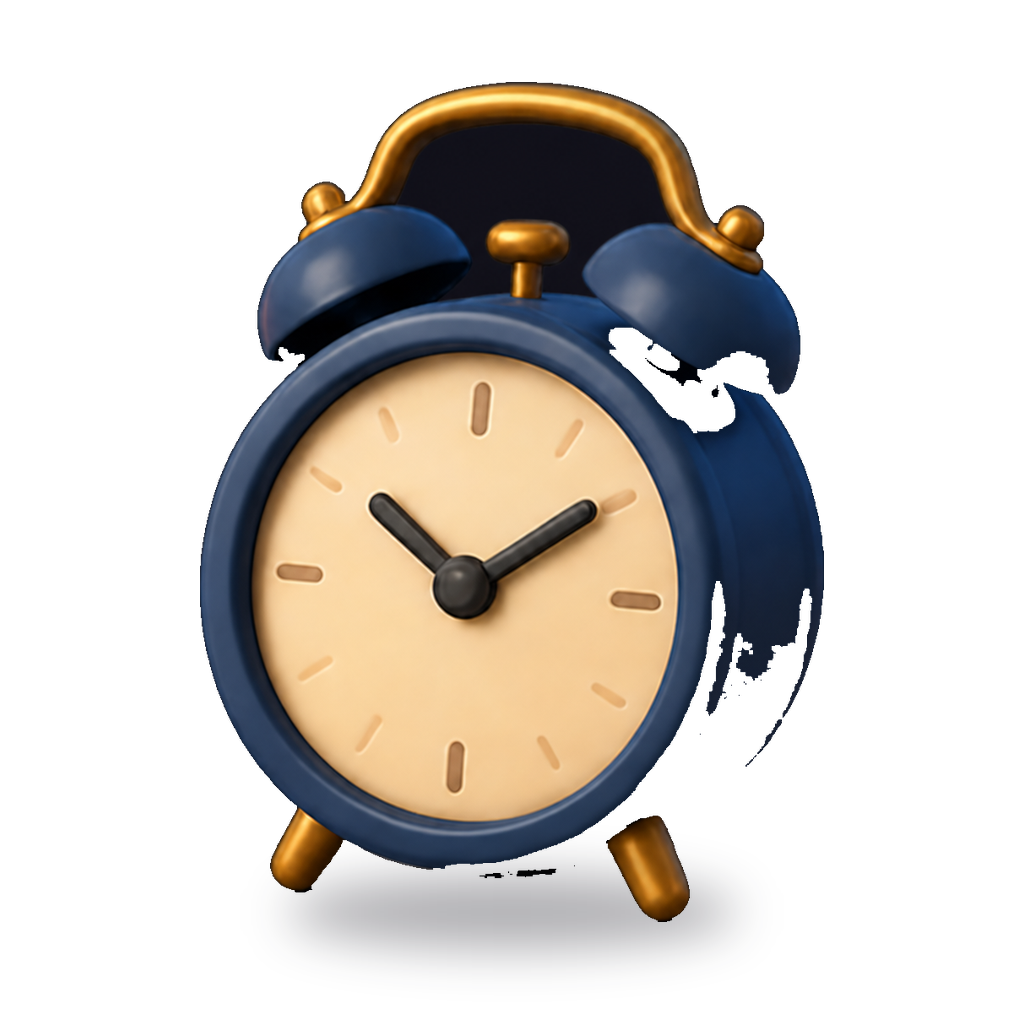
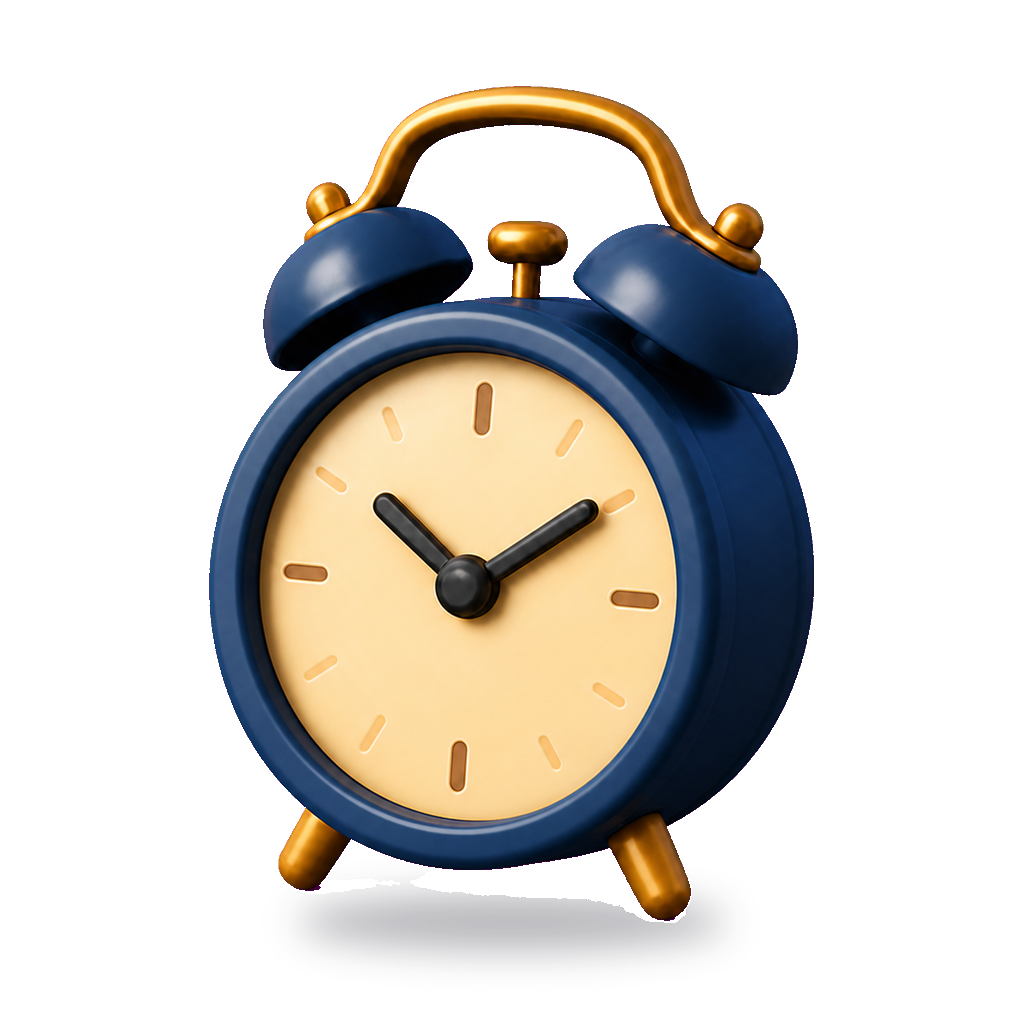
Rad dreht sich, und die drei bestellten Zeichen sind drin
qqSpinSlow: `CozyGameView` setzte seit jeher `animation: qqSpinSlow ...`, und
dieses Keyframe gab es im ganzen Repo nicht. CSS verwirft einen unbekannten
Animationsnamen stillschweigend - keine Konsolenmeldung, kein roter Test, das
Rad stand still, waehrend der Zustand „WHEEL_SPIN" hiess. Nachgemessen mit
--serie: mittlere Abweichung zwischen den Bildern 0,00 von 255. Jetzt 78 bis
85 von 255 auf der Scheibe.

Dazu zwei Entscheidungen, die beim Hinsehen fielen:

* linear statt ease-in-out. Die Schleife laeuft endlos, eine weiche Kurve
  bremst an jeder 360-Grad-Grenze - das liest sich als Stocken, nicht als Rad.
* 2,4s statt 1,2s pro Umdrehung. 1,2s sind 50 Umdrehungen pro Minute, das ist
  ein Ladekringel. 25 U/min ist das Tempo, mit dem ein echtes Rad ausrollt.

Der erste Anlauf drehte das ganze Bild, und im alten Zeichen hing ein Staender
daran - der schwang nach oben links. Wolfs Nachlieferung loest das: Scheibe
ohne Staender, Zeiger als eigene Datei. Zwei Ebenen, die Scheibe dreht, der
Zeiger steht. Gemessen im selben Lauf: Scheibe 78/255, Zeigerbereich 2,6/255.
Die Drehachse steht auf der gemessenen Radachse (breiteste Zeile bei y=500 von
1024, also 48,83 %), sonst eiert die Scheibe um 12px pro Umdrehung.

Aus der Nachlieferung eingebaut, nur was bestellt war:

* fx-rules (aufgeschlagenes Buch) loest fx-book bei den Regeln ab. 📖 zeigt
  jetzt darauf, das Handy zieht mit. fx-book bleibt liegen.
* fx-wheel und fx-wheel-pointer.
* sub-top5.
[…]

diff --git a/frontend/src/components/QQIcon.tsx b/frontend/src/components/QQIcon.tsx
@@ -75,6 +75,8 @@ export type QQIconSlug =
   | 'fx-arena'
   | 'fx-teams'
   // Wolf-Lieferung 2026-07-15 (Arena): 3D-Buch (Regeln) + neutrales Wappen.
+  // `fx-book` traegt die Regeln seit dem 25.08. nicht mehr, siehe `fx-rules`.
+  // Die Datei bleibt liegen, geloescht wird nichts.
   | 'fx-book'
   | 'fx-shield-faction'
   // Wolf-Lieferung 2026-07-16: Rakete (Führungs-Callout), Anker-Wolf (Award
@@ -140,6 +142,10 @@ export type QQIconSlug =
   // Gegenstand darstellen laesst. Nicht in EMOJI_TO_SLUG eintragen — dort
   // wuerden sie generische Zeichen kapern (🔥 ist auch der Underdog-Award,
   // 🎉 auch der Jubel-Effekt). Aufloesung laeuft ueber qqReactionSlug().
+  // ── Nachbestellung, 2026-08-25 ────────────────────────────────────────────
+  // Wolf: „ich wollte buch, cozygames rad und top 5 und die kaputten".
+  | 'fx-rules'             // aufgeschlagenes Buch. Loest fx-book bei den Regeln ab
+  | 'fx-wheel-pointer'     // der Zeiger des Rades, eigene Datei weil er NICHT mitdreht
   | 'react-applause'
   | 'react-fire'
   | 'react-shock'
@@ -194,6 +200,8 @@ const FALLBACK_EMOJI: Record<QQIconSlug, string> = {
   'fx-arena':          '🏟',
   'fx-teams':          '👥',
   'fx-book':           '📖',
+  'fx-rules':          '📖',
+  'fx-wheel-pointer':  '🔻',
   'fx-shield-faction': '🛡',
   'rocket':            '🚀',
   'anker':             '⚓',
@@ -318,7 +326,12 @@ const EMOJI_TO_SLUG: Record<string, QQIconSlug> = {
   '🗺': 'fx-map',
   '👑': 'fx-crown',
   '👥': 'fx-teams',
-  '📖': 'fx-book',
+  // 2026-08-25 (Wolf): 📖 zeigt jetzt das aufgeschlagene Buch. Das alte
+  // `fx-book` war ein geschlossenes Buch mit cremefarbenem Deckel und blauem
+  // Ruecken - dieselben zwei Farben und fast dieselbe stehende Silhouette wie
+  // das MUCHO-Klemmbrett, auf 2,8 m Bildbreite kaum zu unterscheiden. Deshalb
+  // las es sich als Notizbuch und nicht als Regelwerk.
+  '📖': 'fx-rules',
   '🚀': 'rocket',
   // 2026-08-22 (CozyQuiz Icon Set): diese Emoji hatten bisher kein Motiv und
   // wurden als OS-Glyphe gerendert — also in jedem Betriebssystem anders und

diff --git a/frontend/src/components/CozyGameView.tsx b/frontend/src/components/CozyGameView.tsx
@@ -671,9 +671,36 @@ function WheelView({
         {/* 2026-08-23 (2a): die Pinata war ein Systemzeichen und ausserdem das
             falsche Bild - hier dreht ein Rad, keine Pinata. `fx-wheel` liegt im
             Set und steht seit dem CozyGames-Logo fuer genau diesen Moment. */}
+        {/* 2026-08-25 (Wolf: „qqSpinSlow fixen"): das Keyframe steht jetzt in
+            main.css, Begruendung dort. 1,2s pro Umdrehung waren 50 Umdrehungen
+            pro Minute - das liest sich als Ladekringel, nicht als Gluecksrad.
+            2,4s sind 25 U/min, das Tempo, mit dem ein echtes Rad ausrollt.
+
+            Zwei Ebenen, und genau dafuer gibt es die zweite Datei: die Scheibe
+            dreht, der Zeiger steht. Der erste Anlauf drehte das ganze Bild, und
+            im alten Zeichen hing ein Staender daran - der schwang dann mit nach
+            oben links. Wolfs Nachlieferung liefert die Scheibe ohne Staender
+            und den Zeiger einzeln, beide auf derselben 1024er-Leinwand an
+            derselben Stelle. Uebereinandergelegt passen sie ohne Rechnerei.
+
+            Die Achse steht auf der gemessenen Radachse: die breiteste Zeile der
+            Scheibe liegt bei y=500 von 1024, also 48,83 %. Auf der Bildmitte
+            gedreht wuerde sie um 12px eiern. */}
         {spinning && (
-          <div style={{ lineHeight: 1, animation: 'qqSpinSlow 1.2s ease-in-out infinite' }}>
-            <CozyGameIcon id="fx-wheel" emoji="🎡" size="clamp(80px, 12vw, 200px)" />
+          <div style={{
+            position: 'relative', lineHeight: 1,
+            width: 'clamp(80px, 12vw, 200px)', height: 'clamp(80px, 12vw, 200px)',
+          }}>
+            <div style={{
+              position: 'absolute', inset: 0,
+              transformOrigin: '50% 48.83%',
+              animation: 'qqSpinSlow 2.4s linear infinite',
+            }}>
+              <CozyGameIcon id="fx-wheel" emoji="🎡" size="100%" />
+            </div>
+            <div style={{ position: 'absolute', inset: 0, pointerEvents: 'none' }}>
+              <CozyGameIcon id="fx-wheel-pointer" emoji="" size="100%" />
+            </div>
           </div>
         )}
         {!spinning && revealedGame && (

diff --git a/frontend/src/main.css b/frontend/src/main.css
@@ -4789,6 +4789,32 @@ html[data-quiet-motion="true"] *[style*="qqCatNameWave"] {
   96%, 98%      { opacity: 1; }
 }
 
+/* Das drehende Rad im CozyGame-Ersatzzweig (Pool mit nur einem Spiel).
+   2026-08-25 (Wolf: „qqSpinSlow fixen").
+
+   Der Fehler: `CozyGameView` setzte seit jeher `animation: qqSpinSlow ...`,
+   und dieses Keyframe gab es im ganzen Repo nicht. CSS verwirft einen
+   unbekannten Animationsnamen stillschweigend - kein Fehler in der Konsole,
+   kein roter Test, das Rad stand einfach still, waehrend der Zustand
+   „WHEEL_SPIN" hiess. Nachgemessen am 25.08.: das Element ist da, traegt die
+   Animation, und im ganzen Quelltext steht null mal `@keyframes qqSpinSlow`.
+
+   `linear`, nicht `ease-in-out`: die Schleife laeuft endlos, und eine weiche
+   Kurve pro Umdrehung bremst an jeder 360-Grad-Grenze. Das liest sich als
+   Stocken, nicht als Rad. Ein echtes Rad bremst zwar ab, aber hier laeuft es,
+   bis der Moderator weiterschaltet - also gleichmaessig.
+
+   `transform-origin` steht am Aufrufer auf der GEMESSENEN Radachse, nicht auf
+   der Bildmitte. Im Zeichen vom 25.08. liegt die breiteste Zeile der Scheibe
+   bei y=500 von 1024, also 48,83 %; um die Bildmitte gedreht wuerde sie um
+   12px eiern. Das Zeichen davor hatte einen Staender, der beim Drehen nach
+   oben links schwang - Wolf hat es deshalb ohne Staender neu liefern lassen,
+   den Zeiger als eigene Datei, weil der stehen bleiben muss. */
+@keyframes qqSpinSlow {
+  from { transform: rotate(0deg); }
+  to   { transform: rotate(360deg); }
+}
+
 /* Cozy Quirks (2026-07-28, Wolf) — animiertes slot-gebundenes Set. Frames als
    Opacity-Overlays (open-Basis + closed-Blink + action-Quirk), Breathe auf dem
    Wrapper. Timings pro Avatar inline (aus Wolfs animated-grid.html). Nur

diff --git a/frontend/src/components/CozyQuizTeamPhaseCards.tsx b/frontend/src/components/CozyQuizTeamPhaseCards.tsx
@@ -204,7 +204,10 @@ export function RulesCard({ lang, state }: { lang: 'de' | 'en'; state?: QQStateU
             Custom-Buch-Icon reicht. */}
         <div style={{ marginTop: 16, display: 'flex', justifyContent: 'center' }}>
           <div style={{ animation: 'tcwobble 2s ease-in-out infinite' }}>
-            <QQIcon slug="fx-book" size={30} />
+            {/* 2026-08-25: mit der Buehne mitgezogen. Dort steht auf der
+                Regelfolie jetzt das aufgeschlagene Buch, und Handy und Wand
+                sollen im selben Moment dasselbe Zeichen zeigen. */}
+            <QQIcon slug="fx-rules" size={30} />
           </div>
         </div>
       </div>
